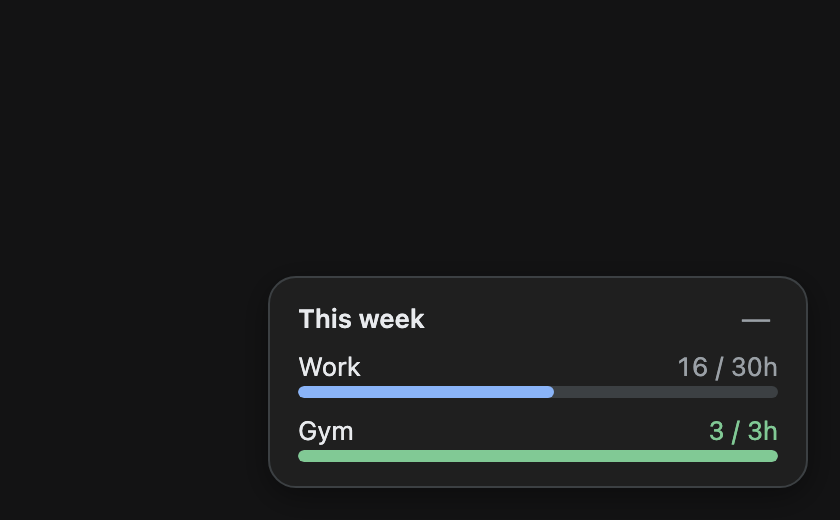
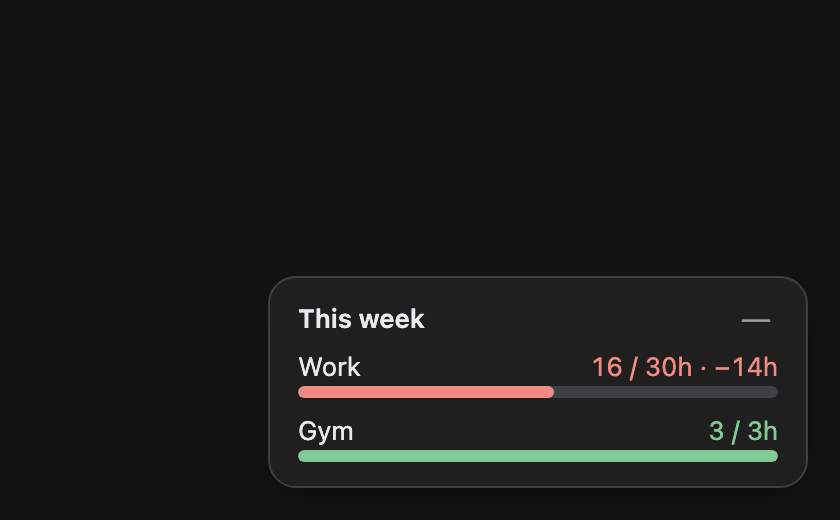
feat: red under-target display with deficit carried to next week
- Under target reads '15 / 20h · −5h' in red (popup + widget), bar red
- Next-week line adds the deficit: 'Next week: 20 + 5 = 25h · Nh planned'
- Colors: red = under, green = hit, amber = over

Changed region(s): [[0.7119, 0.6769, 0.9286, 0.7385], [0.3405, 0.7385, 0.681, 0.7692]]

diff --git a/content.css b/content.css
@@ -72,6 +72,10 @@
   color: #fdd663;
 }
 
+.gtt-value.gtt-under {
+  color: #f28b82;
+}
+
 .gtt-bar {
   grid-column: 1 / -1;
   height: 6px;
@@ -92,6 +96,10 @@
 
 .gtt-fill.gtt-over {
   background: #fdd663;
+}
+
+.gtt-fill.gtt-under {
+  background: #f28b82;
 }
 
 .gtt-note {

diff --git a/content.js b/content.js
@@ -81,13 +81,14 @@
       label.className = 'gtt-name';
       label.textContent = row.name;
       const over = row.target && row.hours > row.target ? row.hours - row.target : 0;
+      const under = row.target && row.hours < row.target ? row.target - row.hours : 0;
+      const delta = over ? ` · +${fmtH(over)}h` : under ? ` · −${fmtH(under)}h` : '';
       const value = document.createElement('span');
       value.className = 'gtt-value';
-      value.textContent = row.target
-        ? `${fmtH(row.hours)} / ${row.target}h${over ? ` · +${fmtH(over)}h` : ''}`
-        : `${fmtH(row.hours)}h`;
+      value.textContent = row.target ? `${fmtH(row.hours)} / ${row.target}h${delta}` : `${fmtH(row.hours)}h`;
       if (row.target && row.hours >= row.target) value.classList.add('gtt-hit');
       if (over) value.classList.add('gtt-over');
+      if (under) value.classList.add('gtt-under');
       const bar = document.createElement('div');
       bar.className = 'gtt-bar';
       const fill = document.createElement('div');
@@ -96,6 +97,7 @@
       fill.style.width = `${pct}%`;
       if (row.target && row.hours >= row.target) fill.classList.add('gtt-hit');
       if (over) fill.classList.add('gtt-over');
+      if (under) fill.classList.add('gtt-under');
       bar.appendChild(fill);
       line.append(label, value, bar);
       card.appendChild(line);

diff --git a/popup.css b/popup.css
@@ -177,6 +177,10 @@ button[type="submit"]:hover {
   color: #fdd663;
 }
 
+.value.under {
+  color: #f28b82;
+}
+
 .next {
   margin-top: 8px;
   font-size: 11px;
@@ -204,6 +208,10 @@ button[type="submit"]:hover {
 
 .fill.over {
   background: #fdd663;
+}
+
+.fill.under {
+  background: #f28b82;
 }
 
 .history {

diff --git a/popup.js b/popup.js
@@ -84,6 +84,7 @@ const renderStats = (occurrences) => {
     const avg = past.reduce((s, r) => s + r.hours, 0) / Math.max(past.length, 1);
     const max = Math.max(...rows.map((r) => r.hours), target || 0, 1);
     const over = target && current.hours > target ? current.hours - target : 0;
+    const under = target && current.hours < target ? target - current.hours : 0;
 
     const card = document.createElement('div');
     card.className = 'card';
@@ -94,11 +95,13 @@ const renderStats = (occurrences) => {
     title.textContent = name;
     const value = document.createElement('span');
     value.className = 'value';
+    const delta = over ? ` · +${fmtH(over)}h over` : under ? ` · −${fmtH(under)}h` : '';
     value.textContent = target
-      ? `${fmtH(current.hours)} / ${target}h this week${over ? ` · +${fmtH(over)}h over` : ''}`
+      ? `${fmtH(current.hours)} / ${target}h this week${delta}`
       : `${fmtH(current.hours)}h this week`;
     if (target && current.hours >= target) value.classList.add('hit');
     if (over) value.classList.add('over');
+    if (under) value.classList.add('under');
     top.append(title, value);
     card.appendChild(top);
 
@@ -110,6 +113,7 @@ const renderStats = (occurrences) => {
     fill.style.width = `${pct}%`;
     if (target && current.hours >= target) fill.classList.add('hit');
     if (over) fill.classList.add('over');
+    if (under) fill.classList.add('under');
     barWrap.appendChild(fill);
     card.appendChild(barWrap);
 
@@ -133,6 +137,8 @@ const renderStats = (occurrences) => {
     if (target && over) {
       const adjusted = Math.max(0, target - over);
       nextEl.textContent = `Next week: ${target} − ${fmtH(over)} = ${fmtH(adjusted)}h · ${fmtH(next.hours)}h planned`;
+    } else if (target && under) {
+      nextEl.textContent = `Next week: ${target} + ${fmtH(under)} = ${fmtH(target + under)}h · ${fmtH(next.hours)}h planned`;
     } else if (target) {
       nextEl.textContent = `Next week: ${target}h target · ${fmtH(next.hours)}h planned`;
     } else {